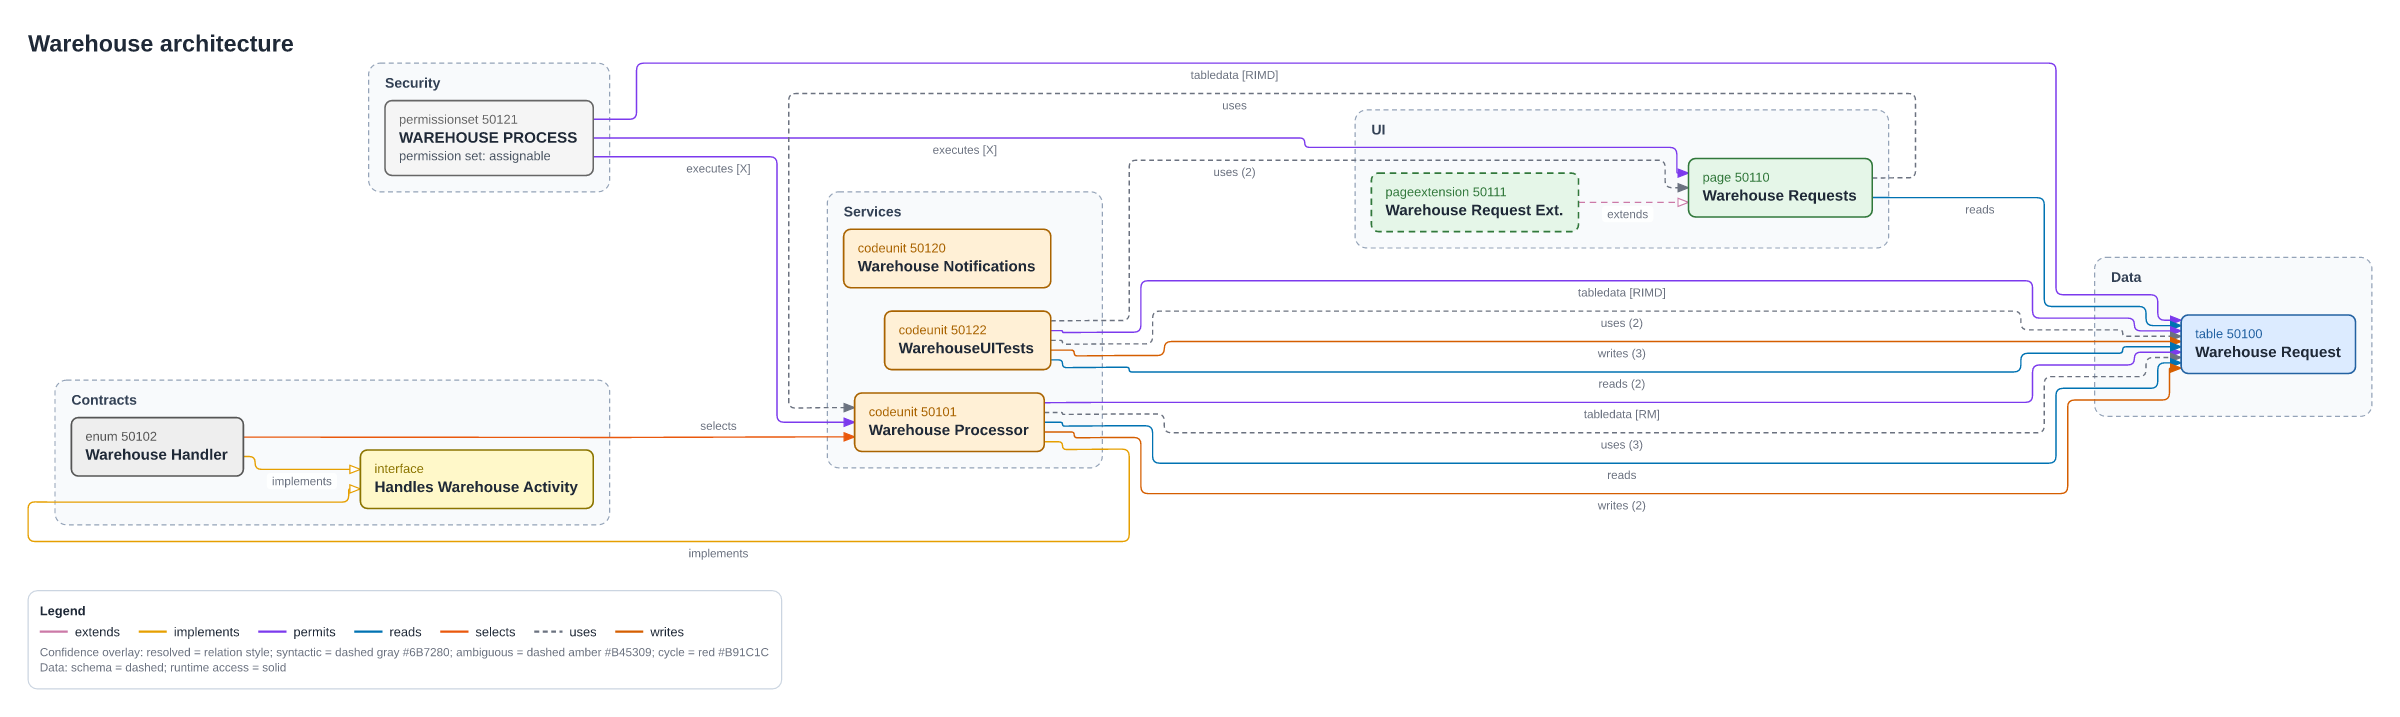
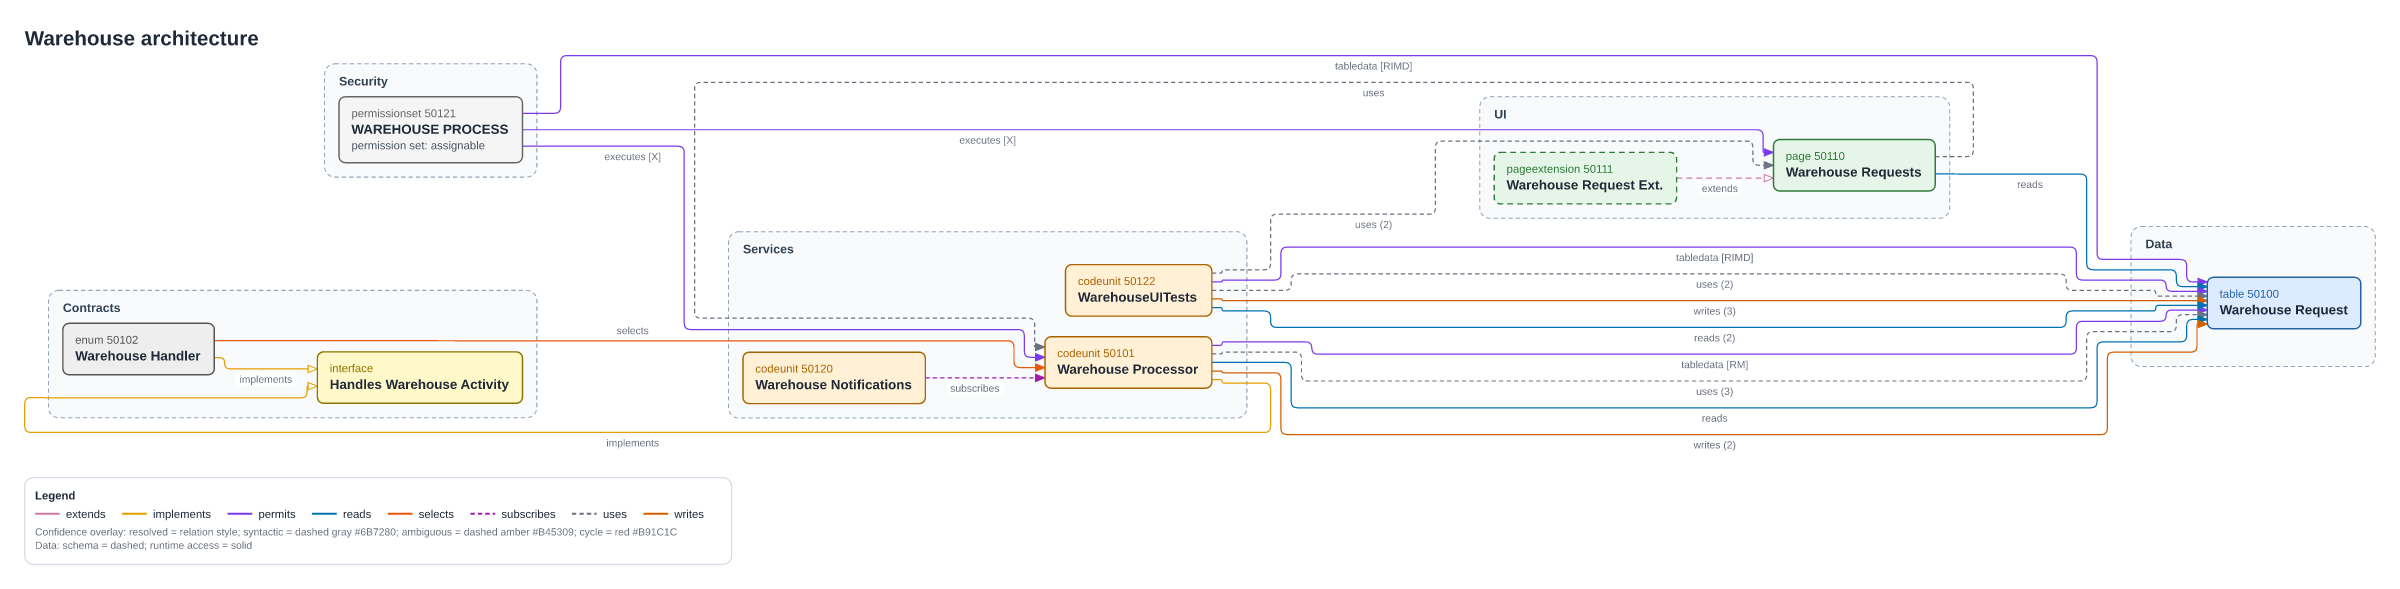
docs: refresh generated architecture examples
Regenerate the tracked examples and report artifacts so the CI freshness check reflects the merged architecture analysis and current main branch.

diff --git a/examples/report/README.md b/examples/report/README.md
@@ -8,7 +8,7 @@
 
 | Files | Objects | Relationships | Unresolved | Cycles | Health |
 | --- | --- | --- | --- | --- | --- |
-| 4 | 9 | 26 | 0 | 0 | Passed (0 errors, 0 warnings) |
+| 4 | 9 | 27 | 0 | 0 | Passed (0 errors, 0 warnings) |
 
 ## Contents
 
@@ -27,7 +27,7 @@ AL objects grouped into role lanes (Data, UI, Services, ...).
 
 ![Project overview](project.svg)
 
-9 nodes, 26 edges. Source: [project.d2](project.d2)
+9 nodes, 27 edges. Source: [project.d2](project.d2)
 
 ## Modules
 
@@ -35,7 +35,7 @@ Aggregated namespace or folder dependencies.
 
 ![Modules](module.svg)
 
-3 nodes, 6 edges. Source: [module.d2](module.d2)
+3 nodes, 7 edges. Source: [module.d2](module.d2)
 
 ## Data model
 
@@ -71,14 +71,14 @@ Pages, source tables, parts, actions, and navigation.
 
 ## Architecture health
 
-**Passed** - 0 error(s), 0 warning(s), 1 info. Fails on: `error`.
+**Passed** - 0 error(s), 0 warning(s), 0 info. Fails on: `error`.
 
 | Metric | Value |
 | --- | --- |
 | Apps | BC Atlas Warehouse Example 1.0.0.0 |
 | Files | 4 |
 | Objects | 9 |
-| Relationships | 26 |
+| Relationships | 27 |
 | Unresolved references | 0 |
 | Dependency cycles | 0 |
 
@@ -96,18 +96,17 @@ Pages, source tables, parts, actions, and navigation.
 
 | Object | Used by | Depends on |
 | --- | --- | --- |
-| codeunit 50101 Warehouse Processor | 3 | 2 |
+| codeunit 50101 Warehouse Processor | 4 | 2 |
 | page 50110 Warehouse Requests | 3 | 2 |
 | table 50100 Warehouse Request | 4 | 0 |
 | permissionset 50121 WAREHOUSE PROCESS | 0 | 3 |
 | codeunit 50122 WarehouseUITests | 0 | 2 |
 | enum 50102 Warehouse Handler | 0 | 2 |
 | interface Handles Warehouse Activity | 2 | 0 |
+| codeunit 50120 Warehouse Notifications | 0 | 1 |
 | pageextension 50111 Warehouse Request Ext. | 0 | 1 |
 
-| Severity | Rule | Finding |
-| --- | --- | --- |
-| Info | `orphan-objects` | 1 object(s) without relationships: codeunit 50120 Warehouse Notifications |
+No findings.
 
 ## Regenerate
 
@@ -115,4 +114,4 @@ Pages, source tables, parts, actions, and navigation.
 bca export examples/warehouse-app --view report -o examples/report --codegraph
 ```
 
-_4 AL file(s) analyzed. Result: PASSED - 0 error(s), 0 warning(s), 1 info (fail on: error)._
+_4 AL file(s) analyzed. Result: PASSED - 0 error(s), 0 warning(s), 0 info (fail on: error)._

diff --git a/examples/report/objects/codeunit/50101-warehouse-processor.md b/examples/report/objects/codeunit/50101-warehouse-processor.md
@@ -45,6 +45,7 @@ Permissions: "tabledata \"Warehouse Request\" = RM"
 | --- | --- | --- | --- |
 | Permits | [WAREHOUSE PROCESS](../permissionset/50121-warehouse-process.md) | Object | X |
 | Selects implementation | [Warehouse Handler](../enum/50102-warehouse-handler.md) | Default |  |
+| subscribes | [Warehouse Notifications](50120-warehouse-notifications.md) | NotifyRequestProcessed |  |
 | Uses | [Warehouse Requests](../page/50110-warehouse-requests.md) | Object |  |
 
 ## Source

diff --git a/examples/report/objects/codeunit/50120-warehouse-notifications.md b/examples/report/objects/codeunit/50120-warehouse-notifications.md
@@ -17,7 +17,9 @@ App: "BC Atlas Warehouse Example 1.0.0.0"
 
 ## Dependencies
 
-None.
+| Relationship | Target | From | Evidence |
+| --- | --- | --- | --- |
+| subscribes | [Warehouse Processor](50101-warehouse-processor.md) | NotifyRequestProcessed |  |
 
 ## Used by
 
